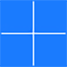
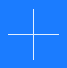
improved colour of blue plus to match background box

diff --git a/index.html b/index.html
@@ -202,7 +202,7 @@
             <h3>Peet Denny</h3>
             <h4>Founder, Consulting CTO</h4>
             <p class="text-info">
-                Peet is a senior software consultant, who is excited about helping businesses get to their goals through the use of technology. He's worked as a developer and designer, run large delivery teams both on and off-shore, and has extensive experience leading large programs of change as technical lead or principal architect. He has introduced Agile, TDD, CD and DevOps to a range of organisations, and is passionate about enterprise and organisational change.
+                Peet is a highly innovative and business-focussed Consulting CTO, with wide experience of leading successful enterprise transformations and effecting cultural change.
                 <br>
                 <a class="fa fa-facebook" href="https://www.facebook.com/Best-Boy-Electric-133213680382017/"></a>
                 <a class="fa fa-linkedin" href="https://uk.linkedin.com/in/peet-denny-5122222"></a>
@@ -213,7 +213,7 @@
             <h3>Nav Sangameswaran</h3>
             <h4>Pricipal Consultant</h4>
             <p class="text-info">
-                Nav is TBC.
+                Nav is a strategic and forward-thinking Technical Consultant, with over 13 years of global experience in strategy, digital transformation and corporate innovation.
                 <br>
             </p>
         </div>
@@ -221,7 +221,7 @@
             <h3>Sion Williams</h3>
             <h4>Principal DevOps Consultant</h4>
             <p class="text-info">
-                Sion is a senior DevOps Engineer, etc. etc. etc.
+                Sion is a passionate DevOps Engineer, with extensive experience in coaching and improving organisations ways of working.
                 <br>
                 <a class="fa fa-linkedin" href="https://www.linkedin.com/in/sionwilliams"></a>
             </p>
@@ -230,7 +230,7 @@
             <h3>Andy Deighton</h3>
             <h4>Product and Scrum coach</h4>
             <p class="text-info">
-                Andy is blah blah blah.
+                Andy is seasoned developer, Certified Scrum Master and a Product Discovery fanatic.
                 <br>
                 <a class="fa fa-linkedin" href="https://www.linkedin.com/in/adeighton"></a>
             </p>
